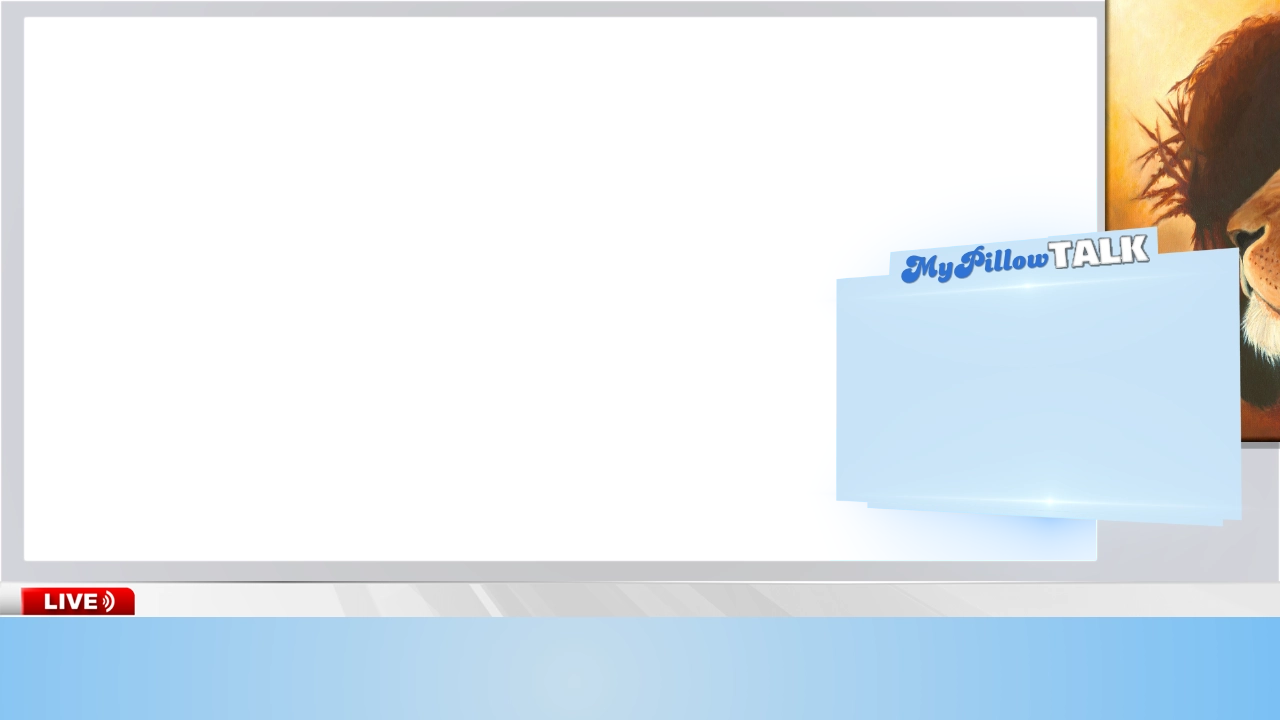
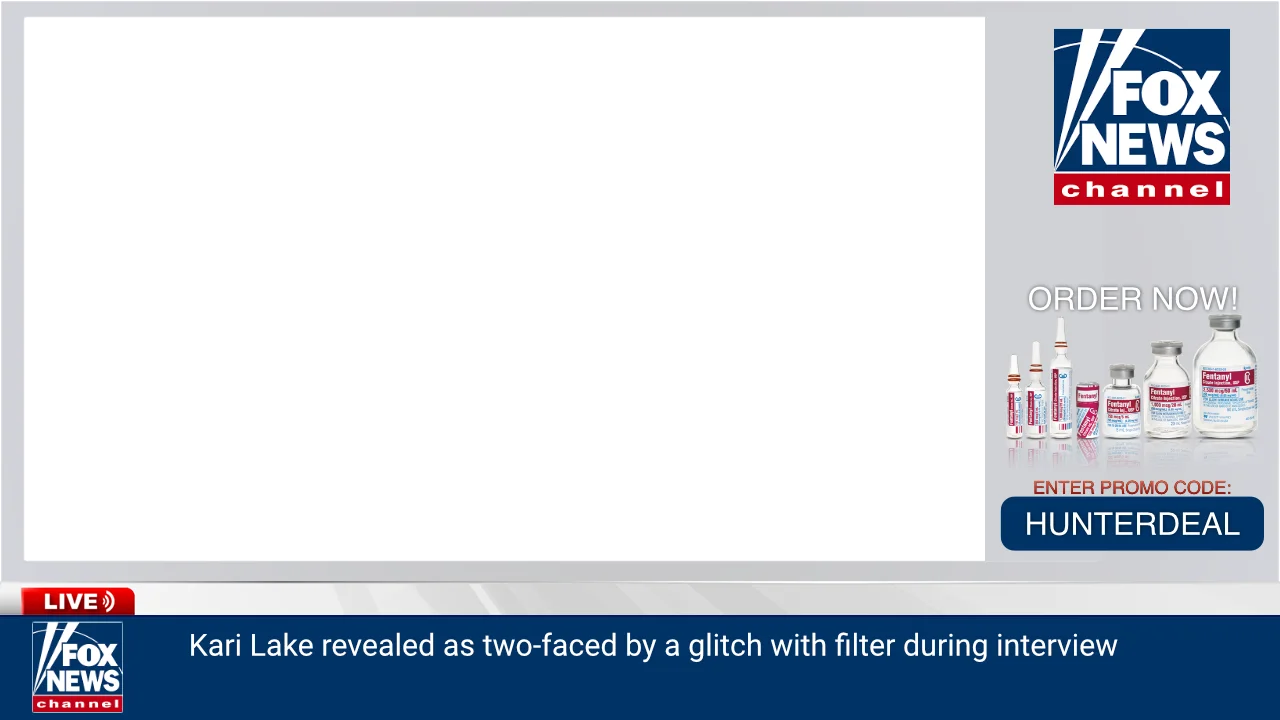
karilake face melt

diff --git a/src/assets/scss/global.scss b/src/assets/scss/global.scss
@@ -12,12 +12,12 @@ body {
 }
 
 body.homepage{
-//   overflow-y: hidden !important;
+  overflow-y: hidden !important;
   overflow-x: hidden !important;
 }
 
-body.blogpost{
-//   overflow-y: hidden !important;
+body.noscroll{
+  overflow-y: hidden !important;
   overflow-x: hidden !important;
 }
 
@@ -81,6 +81,85 @@ h1,h2,h3,h4,.h1,.h2,.h3,.h4, #menu, .header .menu-icon:before, input.special, .i
 // .sharebutts{font-size:clamp(1rem, 4vw, 2rem) !important; padding:5rem; border:0px solid red; color:#ad04a5 !important; }
 // .sharebutts svg{ width:160px; border:1px solid blue;}
 
+.filterfail::before{
+	border:0px solid red; width:70vw; height:72vh; display: block;
+	// background:rgba(0, 0, 0, .5); 
+	position:absolute;
+	top:0;
+	left:2vw;
+	z-index:2;
+	opacity:0;
+	content: " ";
+}
+
+.filterfail::before{
+animation: kariFilter 6s ease-in-out;
+animation-delay: 1s;
+animation-direction: alternate;
+animation-iteration-count:infinite; 
+}
+
+
+@keyframes kariFilter{
+	0% { transform:translateY(-100%);opacity:0; }
+	25% { transform:translateY(0%);opacity:1;
+		-webkit-backdrop-filter: blur(2px); 
+		backdrop-filter: blur(2px); 
+		opactiy:.2;
+	}
+	50% { transform:translateY(0%);opacity:1;
+		-webkit-backdrop-filter: blur(6px); 
+		backdrop-filter: blur(6px); 
+		opacity:1;
+	}
+	75% {transform:translateY(0%);opacity:1;
+		-webkit-backdrop-filter: blur(12px); 
+		backdrop-filter: blur(12px); 
+		opacity:.4;
+	}
+	100% { transform:translateY(-100%);opacity:1;
+		-webkit-backdrop-filter: blur(0); 
+		backdrop-filter: blur(0); 
+		opacity:0;
+	}
+  }
+
+  @keyframes kariMask{
+	0% { 
+		opacity:0;
+		-webkit-backdrop-filter: blur(2px); 
+		backdrop-filter: blur(2px);
+	 }
+	25% {
+		-webkit-backdrop-filter: blur(2px); 
+		backdrop-filter: blur(2px); 
+		opacity:.2;
+	}
+	50% { 
+		-webkit-backdrop-filter: blur(6px); 
+		backdrop-filter: blur(6px); 
+		opacity:.4;
+	}
+	75% {
+		-webkit-backdrop-filter: blur(8px); 
+		backdrop-filter: blur(8px); 
+		opacity:.4;
+	}
+	100% { 
+		-webkit-backdrop-filter: blur(2); 
+		backdrop-filter: blur(2); 
+		opacity:0;
+	}
+  }
+
+
+  .lakemask{
+	animation: kariMask 6s ease-in-out;
+	animation-delay: 4s;
+// animation-direction: alternate;
+animation-iteration-count:infinite;
+opacity:0;
+}
 
 .lineOne {
 	transition-delay:.7s; 
@@ -1569,6 +1648,10 @@ body.homepage .horizontal-holder{height:inherit !important}
 	background:rgba(0, 0, 0, .7);
 	color:#fff;
 }
+
+
+
+
 
 
 @media (max-width: 48em) {

diff --git a/src/templates/blog-post.js b/src/templates/blog-post.js
@@ -463,9 +463,18 @@ const YouTube = frontmatter.youtuber
     
     <Layout className="page">
 <CustomBox style={{}}>
-<Helmet>
-  <body id="body" className="blogpost" style={{background:''}} />
+
+{ContentinVideo ? (
+  <Helmet>
+  <body id="body" className="blogpost noscroll" style={{}} />
 </Helmet>
+) : (
+  <Helmet>
+  <body id="body" className="blogpost" style={{overflowY:'auto'}} />
+</Helmet>
+  )}
+
+
 
       <Seo
         title={frontmatter.title}
@@ -700,7 +709,7 @@ textShadow:'2px 2px 0 #222', color:'#fff',	background:'rgba(0, 0, 0, .8)', paddi
 
 {ContentinVideo ? (
   <div id="contentvideo"
-        className="blog-post-content" style={{ fontSize:'1.1rem', textAlign:'left', padding:'', margin:'0 auto', color:'inherit !important', border:'1px solid transparent', position:'absolute', bottom:'', left:'0', top:'0', right:'0', zindex:'3', maxHeight:'90vh', borderBottom:'0px solid', }}
+        className="blog-post-content" style={{ fontSize:'1.1rem', textAlign:'left', padding:'', margin:'0 auto', color:'inherit !important', border:'1px solid transparent', position:'absolute', bottom:'', left:'0', top:'0', right:'0', zindex:'', maxHeight:'90vh', borderBottom:'0px solid', }}
         dangerouslySetInnerHTML={{ __html: html }}
       ></div>
  ) : (
@@ -727,7 +736,7 @@ textShadow:'2px 2px 0 #222', color:'#fff',	background:'rgba(0, 0, 0, .8)', paddi
 
 
 
-     <div className="panel" style={{width:'90%', height:'', maxWidth:'1024px', margin:'5vh auto 0 auto', borderRadius:'12px', }}>
+     <div className="panel" style={{width:'90%', height:'', maxWidth:'1024px', margin:'0 auto 0 auto', borderRadius:'0 0 12px 12px', }}>
 
 
       

diff --git a/src/content/posts/kerilake-filter.md b/src/content/posts/kerilake-filter.md
@@ -1,0 +1,45 @@
+---
+template: blog-post
+title: Keri Lake's Filter breaks
+slug: /keri-lake-filter
+date: 2023-02-03 10:43
+description: Holy shit, what was that?
+youtuber: "https://youtu.be/uJn3yxOPeGs"
+youtuber2: ""
+youtubeshoworiginal: true
+youtubersuggestion1: ""
+youtubersuggestion2: "https://youtu.be/iiZnOlRPiE0"
+youtubersuggestion3: "https://youtu.be/24nttG5Lnio"
+youtubestart: "120"
+youtubeend: "138"
+youtubemute: true
+audiostart: "20"
+audioend: "5000"
+audiotitle: "Liar Liar!"
+liarliar: true
+youtubecontrols: false
+youtubeautostart: true
+youtubeloop: true
+isnftforsale: false
+svgzindex: "0"
+comments: true
+shareable: true
+underlayImage: /assets/PillowTalkBG2.webp
+featuredImage: /assets/kari-no-filter.webp
+svgImage: 
+nftlink: ""
+nftdrop: ""
+nftredeem: false
+contentinvideo: true
+---
+<div class="filterfail" style="">
+<img class="lakemask" src="/assets/lakemouth.webp" width="100%" />
+</div>
+
+
+
+<!-- https://youtu.be/zQB-_N7CIYY  -->
+
+<!-- https://youtu.be/VgdB9QYKeyM -->
+
+<!-- XjuLZwlDxh8 -->
